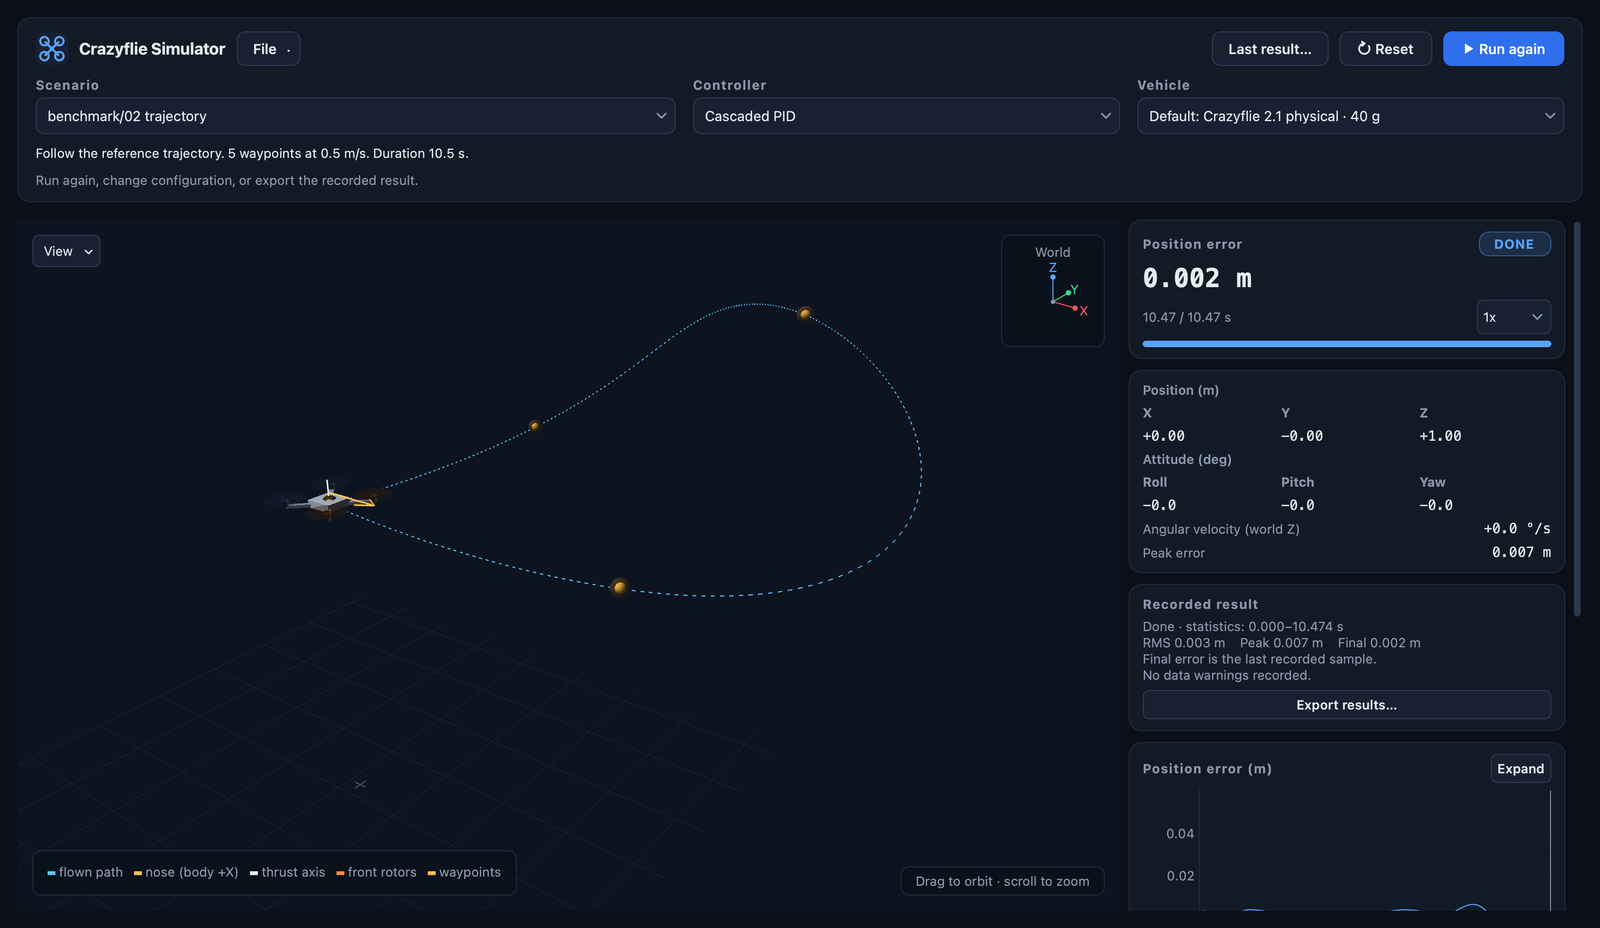
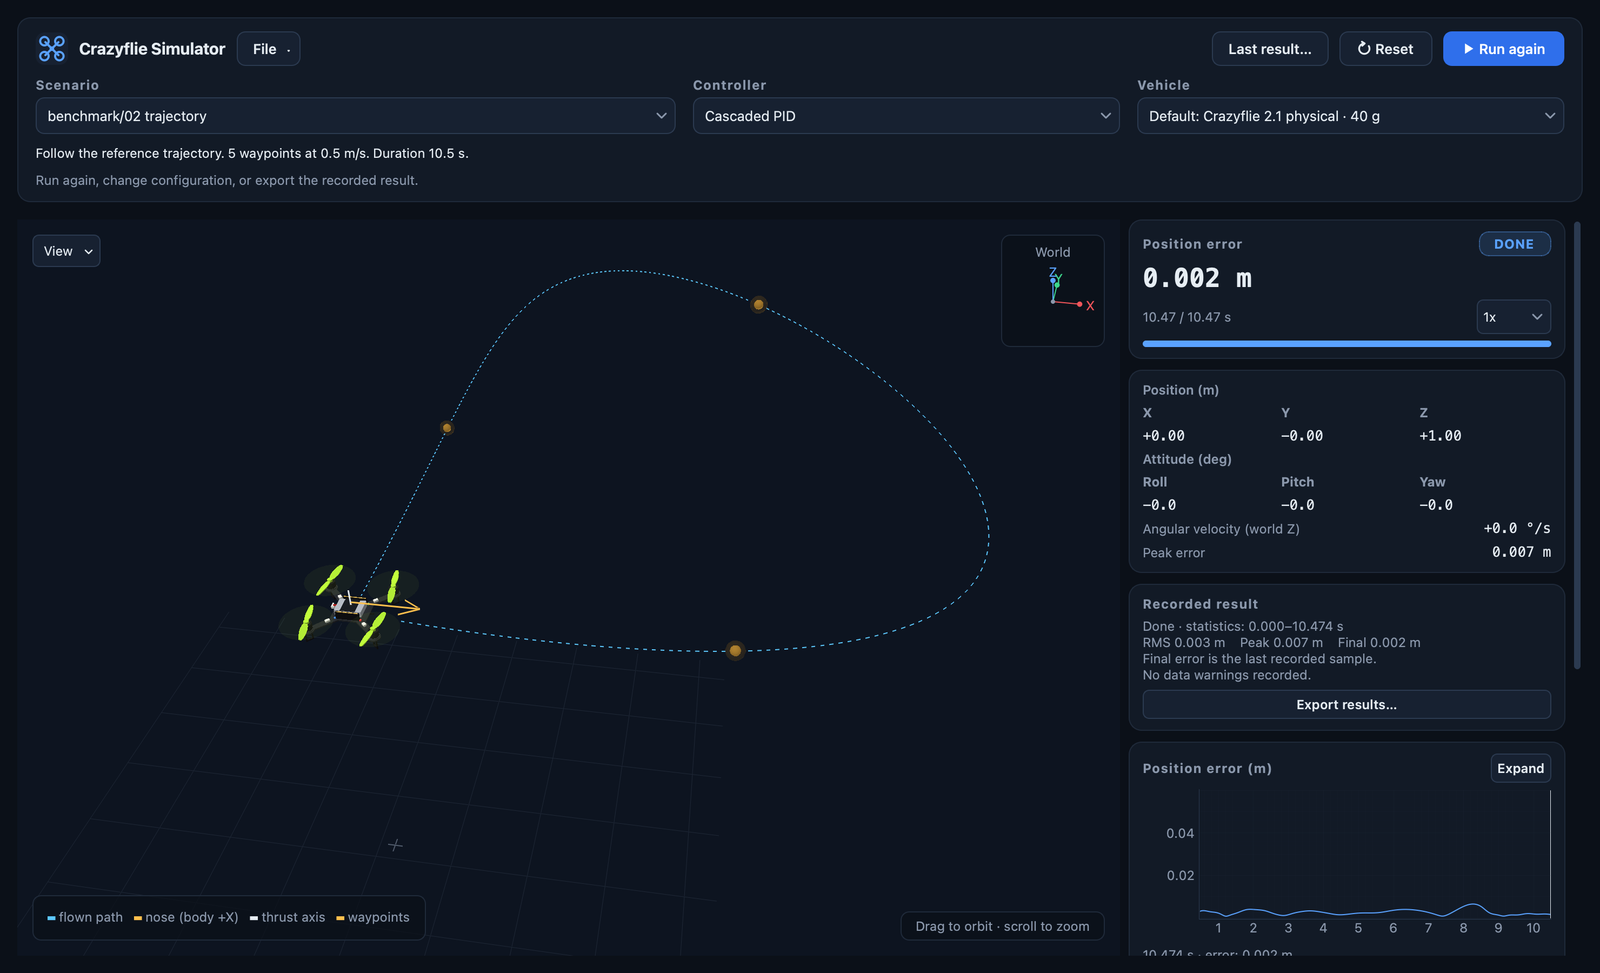
GUI: model the drone on the Crazyflie 2.1 Brushless
Replace the box-and-disc body with the real airframe, legs variant: the
black PCB X-frame with tapered arms and motor pads, the two expansion
headers with the battery between them, 08028 motors, 55 mm two-blade
propellers, leg loops, connectors and the status LEDs, sized from
Bitcraze's datasheet and product photos (still drawn 2.5x).

Meshes use a softer two-sided light derived from pyqtgraph's "shaded"
shader (same code path for pyqtgraph 0.13 and 0.14), so dark parts keep
their shape.  The README screenshot shows the new model.

diff --git a/crazyflie_sim/visualization/quad_plot_pg.py b/crazyflie_sim/visualization/quad_plot_pg.py
@@ -381,56 +381,6 @@ def _frame_rotation_and_origin(frame):
 # ---------------------------------------------------------------------------
 
 
-def _box_mesh(sx, sy, sz, center=(0.0, 0.0, 0.0), rot_z_deg=0.0):
-    hx, hy, hz = sx / 2.0, sy / 2.0, sz / 2.0
-    verts = np.array(
-        [
-            [-hx, -hy, -hz],
-            [hx, -hy, -hz],
-            [hx, hy, -hz],
-            [-hx, hy, -hz],
-            [-hx, -hy, hz],
-            [hx, -hy, hz],
-            [hx, hy, hz],
-            [-hx, hy, hz],
-        ],
-        dtype=float,
-    )
-    faces = np.array(
-        [
-            [0, 1, 2], [0, 2, 3],  # bottom
-            [4, 6, 5], [4, 7, 6],  # top
-            [0, 4, 5], [0, 5, 1],  # -y
-            [1, 5, 6], [1, 6, 2],  # +x
-            [2, 6, 7], [2, 7, 3],  # +y
-            [3, 7, 4], [3, 4, 0],  # -x
-        ],
-        dtype=np.int32,
-    )
-    if rot_z_deg:
-        a = np.radians(rot_z_deg)
-        c, s = np.cos(a), np.sin(a)
-        rot = np.array([[c, -s, 0.0], [s, c, 0.0], [0.0, 0.0, 1.0]])
-        verts = verts @ rot.T
-    return verts + np.asarray(center, dtype=float), faces
-
-
-def _cylinder_mesh(radius, height, center=(0.0, 0.0, 0.0), sides=18):
-    angles = np.linspace(0.0, 2.0 * np.pi, sides, endpoint=False)
-    ring = np.column_stack((radius * np.cos(angles), radius * np.sin(angles)))
-    bottom = np.column_stack((ring, np.full(sides, -height / 2.0)))
-    top = np.column_stack((ring, np.full(sides, height / 2.0)))
-    verts = np.vstack((bottom, top))
-    faces = []
-    for i in range(sides):
-        j = (i + 1) % sides
-        faces.append([i, j, sides + j])
-        faces.append([i, sides + j, sides + i])
-        faces.append([0, j, i])  # bottom cap fan (rough but shaded flat)
-        faces.append([sides, sides + i, sides + j])  # top cap fan
-    return verts + np.asarray(center, dtype=float), np.asarray(faces, dtype=np.int32)
-
-
 def _disc_mesh(radius, center=(0.0, 0.0, 0.0), sides=36):
     angles = np.linspace(0.0, 2.0 * np.pi, sides, endpoint=False)
     ring = np.column_stack(
@@ -476,6 +426,90 @@ def _sphere_mesh(radius, center=(0.0, 0.0, 0.0), segments=16, rings=10):
         np.asarray(verts, dtype=float) + np.asarray(center, dtype=float),
         np.asarray(faces, dtype=np.int32),
     )
+
+
+def _prism_mesh(polygon, z0, z1):
+    """A convex polygon (counter-clockwise in the xy plane) extruded from z0 to z1."""
+    poly = np.asarray(polygon, dtype=float)
+    n = len(poly)
+    centroid = poly.mean(axis=0)
+    verts = np.vstack((
+        np.column_stack((poly, np.full(n, z0))),
+        np.column_stack((poly, np.full(n, z1))),
+        [[centroid[0], centroid[1], z0], [centroid[0], centroid[1], z1]],
+    ))
+    bottom, top = 2 * n, 2 * n + 1
+    faces = []
+    for i in range(n):
+        j = (i + 1) % n
+        faces += [[i, j, n + j], [i, n + j, n + i], [bottom, j, i], [top, n + i, n + j]]
+    return verts, np.asarray(faces, dtype=np.int32)
+
+
+def _circle(radius, cx=0.0, cy=0.0, sides=20):
+    a = np.linspace(0.0, 2.0 * np.pi, sides, endpoint=False)
+    return np.column_stack((cx + radius * np.cos(a), cy + radius * np.sin(a)))
+
+
+def _rounded_rect(sx, sy, r, segments=4):
+    """Counter-clockwise outline of an sx-by-sy rectangle with corner radius r."""
+    hx, hy = sx / 2.0 - r, sy / 2.0 - r
+    points = []
+    for (cx, cy), start in (((hx, -hy), -90.0), ((hx, hy), 0.0), ((-hx, hy), 90.0), ((-hx, -hy), 180.0)):
+        for a in np.radians(np.linspace(start, start + 90.0, segments + 1)):
+            points.append((cx + r * np.cos(a), cy + r * np.sin(a)))
+    return np.asarray(points)
+
+
+def _place(mesh, rot_z_deg=0.0, offset=(0.0, 0.0, 0.0)):
+    verts, faces = mesh
+    a = np.radians(rot_z_deg)
+    rot = np.array([[np.cos(a), -np.sin(a), 0.0], [np.sin(a), np.cos(a), 0.0], [0.0, 0.0, 1.0]])
+    return verts @ rot.T + np.asarray(offset, dtype=float), faces
+
+
+def _merge_meshes(meshes):
+    verts, faces, offset = [], [], 0
+    for v, f in meshes:
+        verts.append(v)
+        faces.append(f + offset)
+        offset += len(v)
+    return np.vstack(verts), np.vstack(faces)
+
+
+def _propeller_mesh(radius, z, pitch_deg, direction):
+    """Two-blade propeller around the z axis: hub plus flat, pitched blades."""
+    t = np.array([0.0, 0.15, 0.35, 0.55, 0.75, 0.9, 1.0])
+    chord = 0.0075 * np.array([0.55, 0.85, 1.0, 0.95, 0.8, 0.62, 0.35])  # convex outline
+    r = 0.0025 + t * (radius - 0.0025)
+    outline = np.vstack((np.column_stack((r, -chord / 2)), np.column_stack((r, chord / 2))[::-1]))
+    blade_v, blade_f = _prism_mesh(outline, -0.0004, 0.0004)
+    a = np.radians(pitch_deg) * direction  # twist follows the spin direction
+    pitch = np.array([[1.0, 0.0, 0.0], [0.0, np.cos(a), -np.sin(a)], [0.0, np.sin(a), np.cos(a)]])
+    blade = (blade_v @ pitch.T, blade_f)
+    hub = _prism_mesh(_circle(0.0028, sides=16), -0.0013, 0.0013)
+    return _place(_merge_meshes([hub, blade, _place(blade, 180.0)]), offset=(0.0, 0.0, z))
+
+
+def _studio_shader():
+    """Name of a mesh shader like pyqtgraph's "shaded", with a softer two-sided
+    light from the viewer's upper left so dark parts keep their shape.  Falls
+    back to "shaded" if pyqtgraph's built-in shader ever changes."""
+    from pyqtgraph.opengl import shaders
+
+    name = "crazyflie_studio"
+    if name in shaders.ShaderProgram.names:
+        return name
+    base = shaders.getShaderProgram("shaded")
+    vert = next(sh.code for sh in base.shaders if isinstance(sh, shaders.VertexShader))
+    frag = next(sh.code for sh in base.shaders if isinstance(sh, shaders.FragmentShader))
+    light, shade = "normalize(vec3(1.0, -1.0, -1.0))", "p = p < 0. ? 0. : p * 0.8;"
+    if light not in frag or shade not in frag:
+        return "shaded"
+    frag = frag.replace(light, "normalize(vec3(-0.4, 0.6, 1.0))").replace(
+        shade, "p = 0.3 + 0.6 * max(p, 0.0) + 0.2 * max(-p, 0.0);")
+    shaders.ShaderProgram(name, [shaders.VertexShader(vert), shaders.FragmentShader(frag)])
+    return name
 
 
 def _grid_lines(half_size, spacing):
@@ -622,11 +656,10 @@ class _PyQtGraphQuadWindow:
 
     # Crazyflie-scale body geometry (meters, body frame: +x forward, z up).
     _XY = 0.05 / np.sqrt(2.0)  # motor x/y offset (arm_length / sqrt(2))
-    _ARM_LEN = 0.10  # motor-to-motor diagonal
-    _MOTOR_R = 0.0042
-    _MOTOR_H = 0.007
-    _PROP_R = 0.023
-    _PROP_Z = 0.0085
+    _PCB_T = 0.0016  # board thickness
+    _PROP_Z = 0.0118  # propeller plane above the bottom of the PCB
+    COLOR_PCB = (0.16, 0.17, 0.19, 1.0)  # black solder mask, lifted off the dark scene
+    COLOR_PROP = (0.72, 0.95, 0.22, 1.0)  # Bitcraze's lime-green propellers
     _PROP_DIRS = (1.0, -1.0, 1.0, -1.0)  # m1/m3 CCW, m2/m4 CW (viewed from above)
 
     def __init__(
@@ -1231,82 +1264,93 @@ class _PyQtGraphQuadWindow:
             faces=faces,
             smooth=smooth,
             color=color,
-            shader="shaded",
+            shader=_studio_shader(),
             glOptions=gl_options,
         )
         self.view.addItem(item)
         return item
 
     def _build_body(self):
-        """Rigid-body mesh set in body frame; transformed per frame in _set_frame."""
+        """The Crazyflie 2.1 Brushless (legs variant) in the body frame: metres,
+        +x forward, +y left, z up from the bottom of the PCB, drawn BODY_SCALE
+        times larger.  Transformed every frame in _update_body.
+
+        Sizes follow Bitcraze's datasheet and product photos: a 100 mm
+        motor-to-motor frame, a 39 x 31 mm board with tapered PCB arms, the two
+        expansion headers with the battery between them, 08028 motors on round
+        pads, 55 mm two-blade propellers and a leg loop under each motor.
+        """
         xy = self._XY
+        pcb = self._PCB_T
         components = []
 
-        def add(verts, faces, color, smooth=True, gl_options="opaque",
-                spin_center=None, spin_dir=0.0):
+        def add(mesh, color, smooth=False, gl_options="opaque", spin_center=None, spin_dir=0.0):
+            verts, faces = mesh
             verts = verts * self.BODY_SCALE
             if spin_center is not None:
                 spin_center = np.asarray(spin_center, dtype=float) * self.BODY_SCALE
             item = self._add_mesh(verts, faces, color, smooth, gl_options)
-            components.append(
-                {
-                    "item": item,
-                    "verts": verts,
-                    "faces": faces,
-                    "spin_center": spin_center,
-                    "spin_dir": spin_dir,
-                }
-            )
+            components.append({"item": item, "verts": verts, "faces": faces,
+                               "spin_center": spin_center, "spin_dir": spin_dir})
 
-        # Central hub + two diagonal arms (carbon frame).
-        v, f = _box_mesh(0.034, 0.034, 0.009, center=(0, 0, 0.002))
-        add(v, f, (0.78, 0.82, 0.88, 1.0), smooth=False)
-        v, f = _box_mesh(self._ARM_LEN, 0.006, 0.0035, rot_z_deg=45.0)
-        add(v, f, (0.58, 0.63, 0.71, 1.0), smooth=False)
-        v, f = _box_mesh(self._ARM_LEN, 0.006, 0.0035, rot_z_deg=-45.0)
-        add(v, f, (0.58, 0.63, 0.71, 1.0), smooth=False)
+        def box(sx, sy, sz, x, y, z0, rot=0.0):
+            return _place(_prism_mesh(_rounded_rect(sx, sy, 1e-4, 1), z0, z0 + sz), rot, (x, y, 0.0))
 
-        # Real Crazyflie 2.x layout (+x forward, +y left): m1 front-right,
-        # m2 rear-right, m3 rear-left, m4 front-left (model/params.py
-        # body_frame order).
-        motor_positions = [(xy, -xy), (-xy, -xy), (-xy, xy), (xy, xy)]
-        cap_colors = [
-            _gl_color("#ff8a3d"),  # m1/m4 are +x (front): warm accent
-            _gl_color("#5aa2ff"),  # m2/m3 rear: cool
-            _gl_color("#5aa2ff"),
-            _gl_color("#ff8a3d"),
-        ]
-        prop_colors = [
-            _gl_color("#ff8a3d", 0.40),
-            _gl_color("#5aa2ff", 0.40),
-            _gl_color("#5aa2ff", 0.40),
-            _gl_color("#ff8a3d", 0.40),
-        ]
-        # body_frame order: m1(+x,-y) m2(-x,-y) m3(-x,+y) m4(+x,+y)
-        front = (True, False, False, True)
-        for i, (mx, my) in enumerate(motor_positions):
-            v, f = _cylinder_mesh(
-                self._MOTOR_R, self._MOTOR_H, center=(mx, my, self._MOTOR_H / 2.0)
-            )
-            add(v, f, (0.30, 0.34, 0.41, 1.0))
-            v, f = _cylinder_mesh(
-                self._MOTOR_R * 1.02, 0.0018, center=(mx, my, self._MOTOR_H + 0.001)
-            )
-            add(
-                v, f,
-                cap_colors[i] if front[i] else cap_colors[i],
-                smooth=True,
-            )
-            v, f = _disc_mesh(self._PROP_R, center=(mx, my, self._PROP_Z))
-            add(
-                v, f,
-                prop_colors[i],
-                smooth=False,
-                gl_options="translucent",
-                spin_center=np.array([mx, my, self._PROP_Z]),
-                spin_dir=self._PROP_DIRS[i],
-            )
+        def on_arm(angle, u, sx, sy, sz, z0):
+            """A box at distance u along the arm at ``angle`` (deg), aligned with it."""
+            a = np.radians(angle)
+            return box(sx, sy, sz, u * np.cos(a), u * np.sin(a), z0, angle)
 
+        # m1 front-right, m2 rear-right, m3 rear-left, m4 front-left (the
+        # mixer's order); arm angles measured from +x.
+        motors = [(xy, -xy), (-xy, -xy), (-xy, xy), (xy, xy)]
+        arm_angles = (-45.0, -135.0, 135.0, 45.0)
+
+        # Black PCB: board, four tapered arms and the round motor pads (index 0:
+        # the rigid part tests and tools read).
+        arm = [(0.012, -0.0045), (0.046, -0.0032), (0.046, 0.0032), (0.012, 0.0045)]
+        pcb_parts = [_prism_mesh(_rounded_rect(0.039, 0.031, 0.004), 0.0, pcb)]
+        pcb_parts += [_place(_prism_mesh(arm, 0.0, pcb), angle) for angle in arm_angles]
+        pcb_parts += [_prism_mesh(_circle(0.0068, mx, my, 24), 0.0, pcb) for mx, my in motors]
+        add(_merge_meshes(pcb_parts), self.COLOR_PCB)
+
+        # Expansion headers along both long edges, the antenna stub at the front.
+        add(_merge_meshes([box(0.0254, 0.0025, 0.0085, 0.0, y, pcb) for y in (0.0128, -0.0128)]
+                          + [box(0.0045, 0.0012, 0.0012, 0.0215, 0.0, 0.0002)]),
+            (0.07, 0.07, 0.08, 1.0))
+        # Gold pins along the top of each header.
+        add(_merge_meshes([box(0.0240, 0.0011, 0.0003, 0.0, y, pcb + 0.0085) for y in (0.0128, -0.0128)]),
+            (0.86, 0.70, 0.32, 1.0))
+        # Battery between the headers, its label, leads and the white JST plug at the rear.
+        add(box(0.029, 0.0195, 0.0065, -0.001, 0.0, pcb + 0.0014), (0.70, 0.72, 0.75, 1.0))
+        add(box(0.016, 0.0197, 0.0004, -0.001, 0.0, pcb + 0.0079), (0.10, 0.11, 0.13, 1.0))
+        add(box(0.006, 0.0012, 0.0012, -0.0180, 0.0030, pcb + 0.0030), (0.85, 0.12, 0.12, 1.0))
+        add(box(0.006, 0.0012, 0.0012, -0.0180, 0.0050, pcb + 0.0030), (0.12, 0.12, 0.13, 1.0))
+        add(_merge_meshes([box(0.0035, 0.006, 0.003, -0.0215, 0.0040, pcb)]
+                          + [on_arm(a, 0.028, 0.0048, 0.0034, 0.0022, pcb) for a in arm_angles]),
+            (0.93, 0.93, 0.90, 1.0))
+        # Status LEDs: red and green at the front, blue at the rear.
+        for angle, color in zip(arm_angles, ("#ff3b3b", "#4c9aff", "#4c9aff", "#3dff7a")):
+            add(on_arm(angle, 0.019, 0.0028, 0.0022, 0.0012, pcb), _gl_color(color))
+
+        # 08028 motors: mount and black bell, plus the leg loop underneath.
+        add(_merge_meshes([_prism_mesh(_circle(0.0058, mx, my), pcb, pcb + 0.0018) for mx, my in motors]),
+            (0.24, 0.25, 0.27, 1.0))
+        add(_merge_meshes([_prism_mesh(_circle(0.0054, mx, my), pcb + 0.0018, 0.0104) for mx, my in motors]),
+            (0.11, 0.11, 0.12, 1.0))
+        legs = []
+        for angle in arm_angles:
+            for u in (0.0465, 0.0535):
+                legs.append(on_arm(angle, u, 0.0015, 0.0015, 0.011, -0.011))
+            legs.append(on_arm(angle, 0.050, 0.0085, 0.0015, 0.0015, -0.0125))
+        add(_merge_meshes(legs), (0.09, 0.09, 0.10, 1.0))
+
+        # 55 mm propellers (spinning) and a faint disc for the blur of the blades.
+        for (mx, my), spin in zip(motors, self._PROP_DIRS):
+            add(_place(_propeller_mesh(0.0275, self._PROP_Z, 14.0, spin), offset=(mx, my, 0.0)),
+                self.COLOR_PROP, spin_center=(mx, my, self._PROP_Z), spin_dir=spin)
+        add(_merge_meshes([_disc_mesh(0.0275, center=(mx, my, self._PROP_Z)) for mx, my in motors]),
+            self.COLOR_PROP[:3] + (0.05,), gl_options="translucent")
         return components
 
     def _init_scene(self):
@@ -1500,8 +1544,7 @@ class _PyQtGraphQuadWindow:
 
         # Key to the scene's marks and how to move the camera, as overlay
         # labels like the axis letters.
-        entries = [("#5cc8ff", "flown path"), ("#ffc04d", "nose (body +X)"), (THEME["text"], "thrust axis"),
-                   ("#ff8a3d", "front rotors")]
+        entries = [("#5cc8ff", "flown path"), ("#ffc04d", "nose (body +X)"), (THEME["text"], "thrust axis")]
         if self.show_wind:
             entries.append((self.COLOR_WIND_ARROW, "wind velocity, 0.5 m per m/s" if self.wind_as_velocity else "wind force, 0.5 m per N"))
         if show_waypoints:
